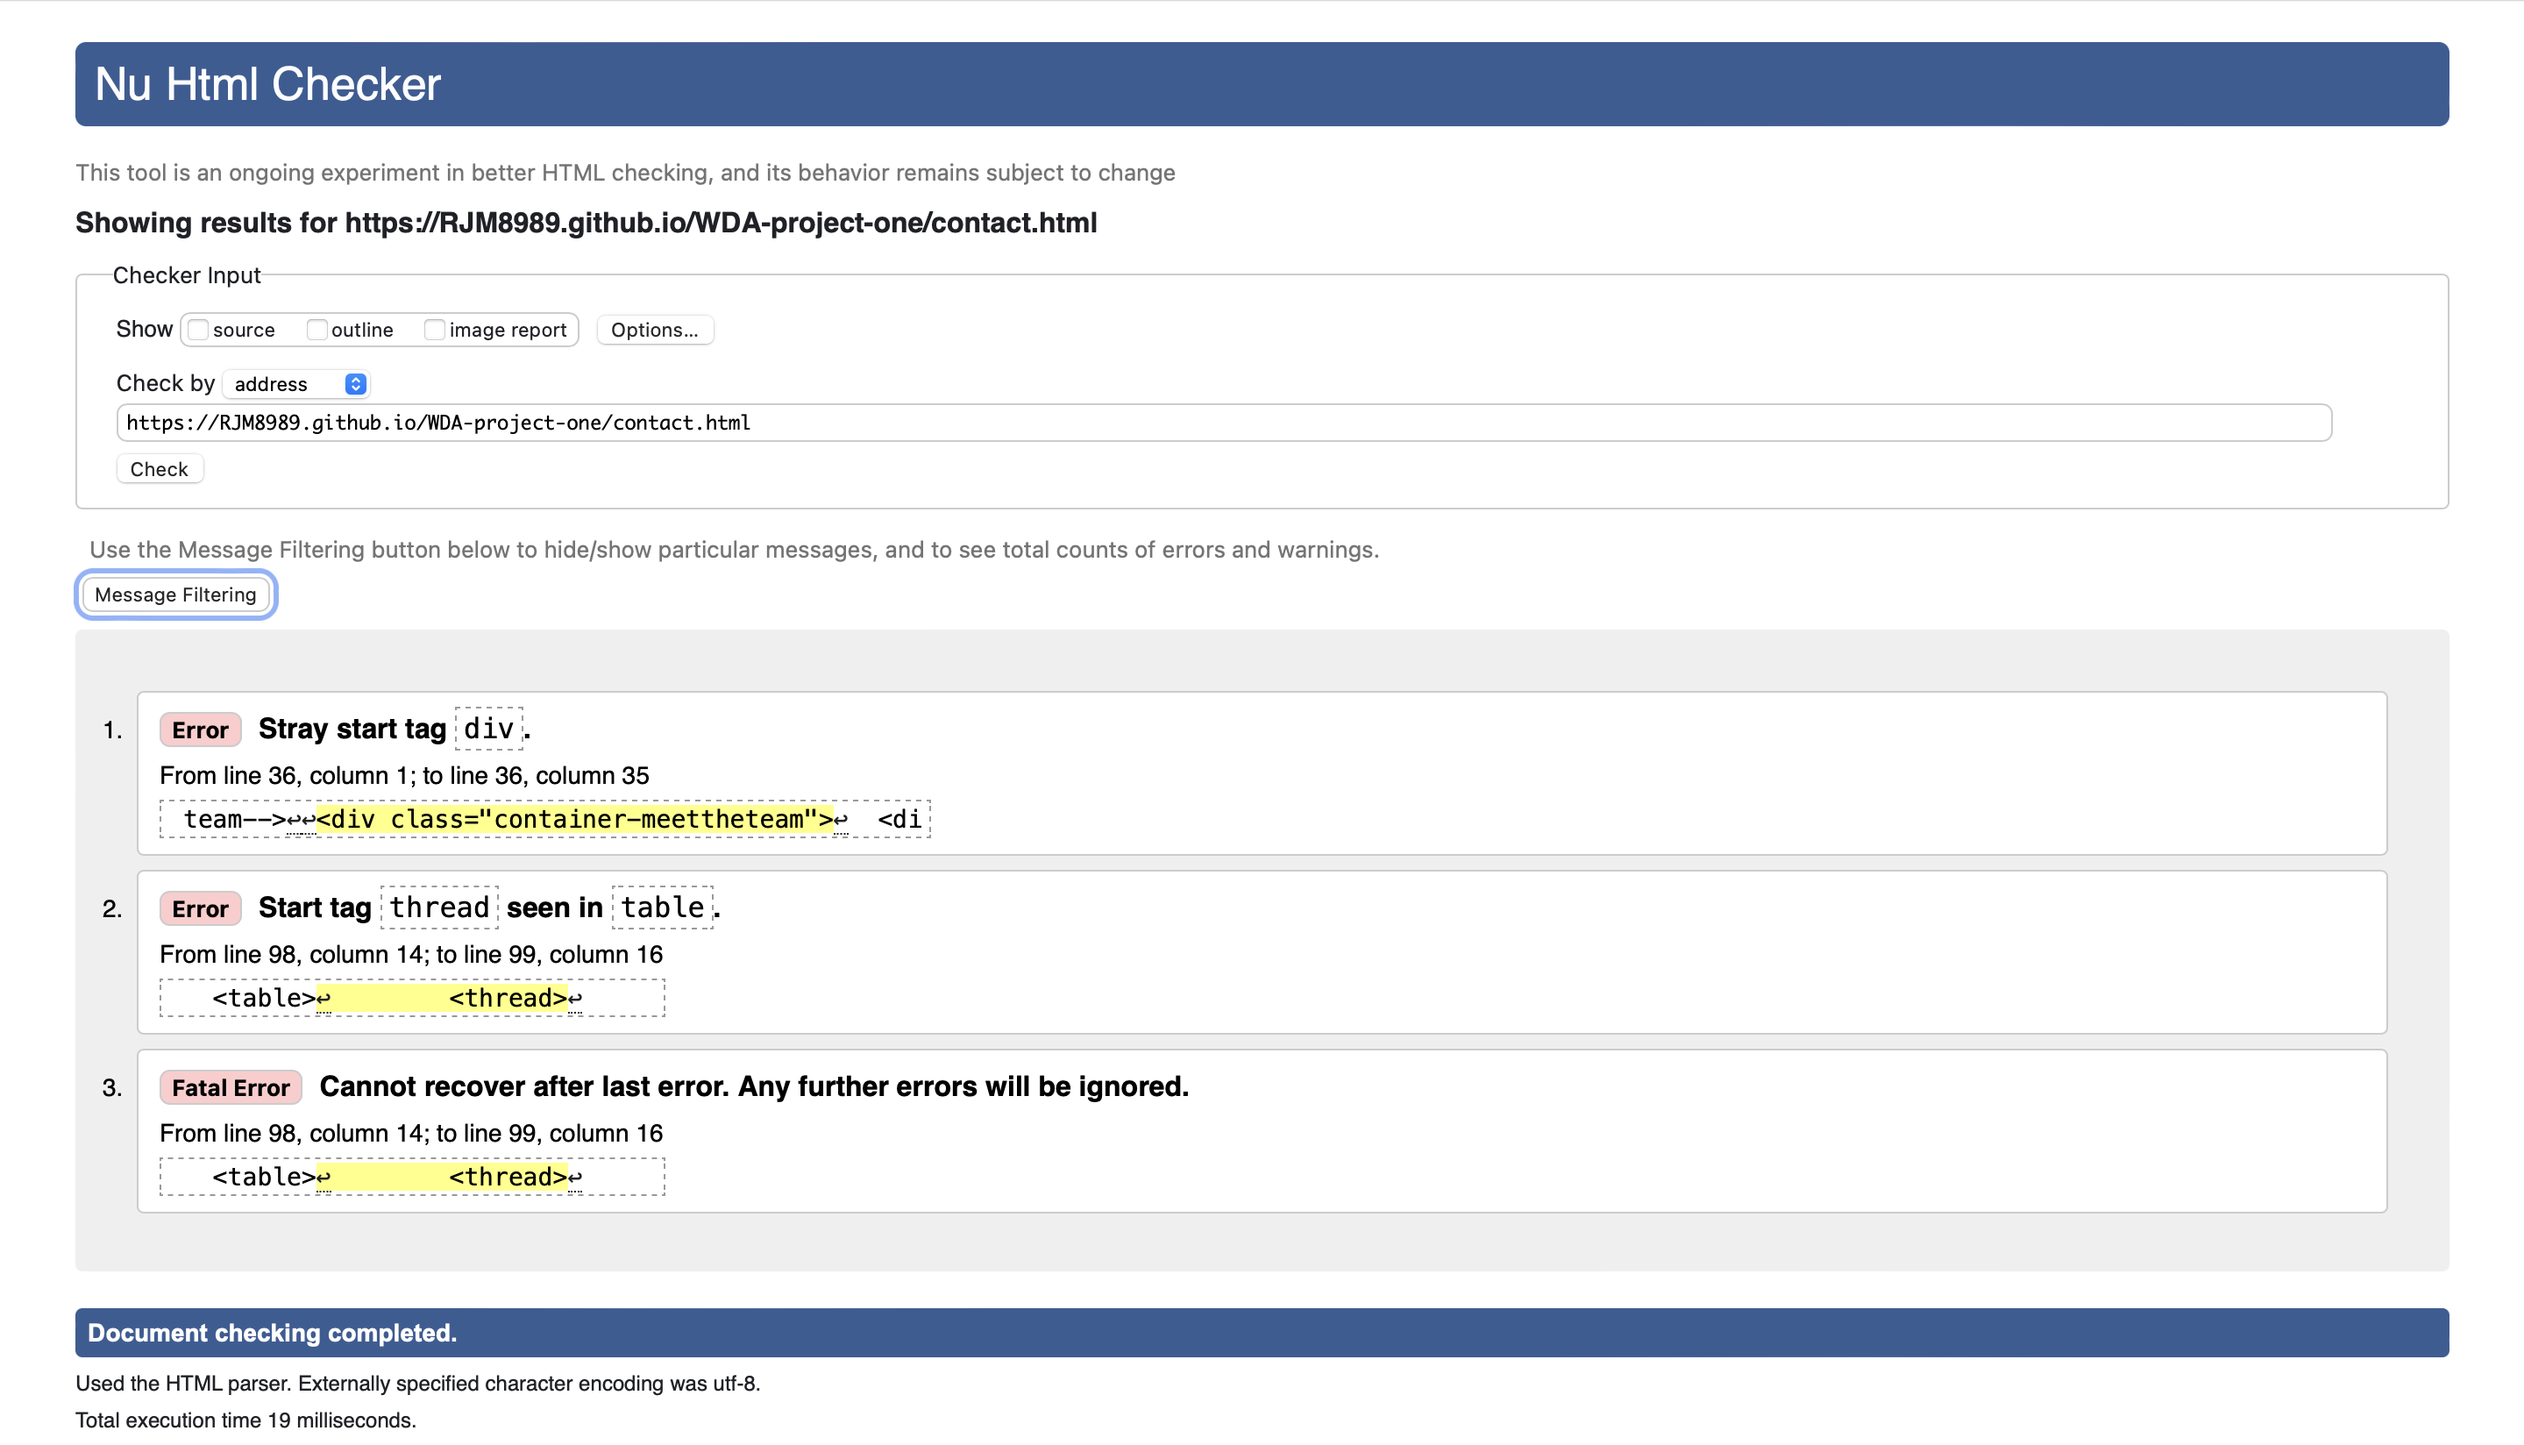
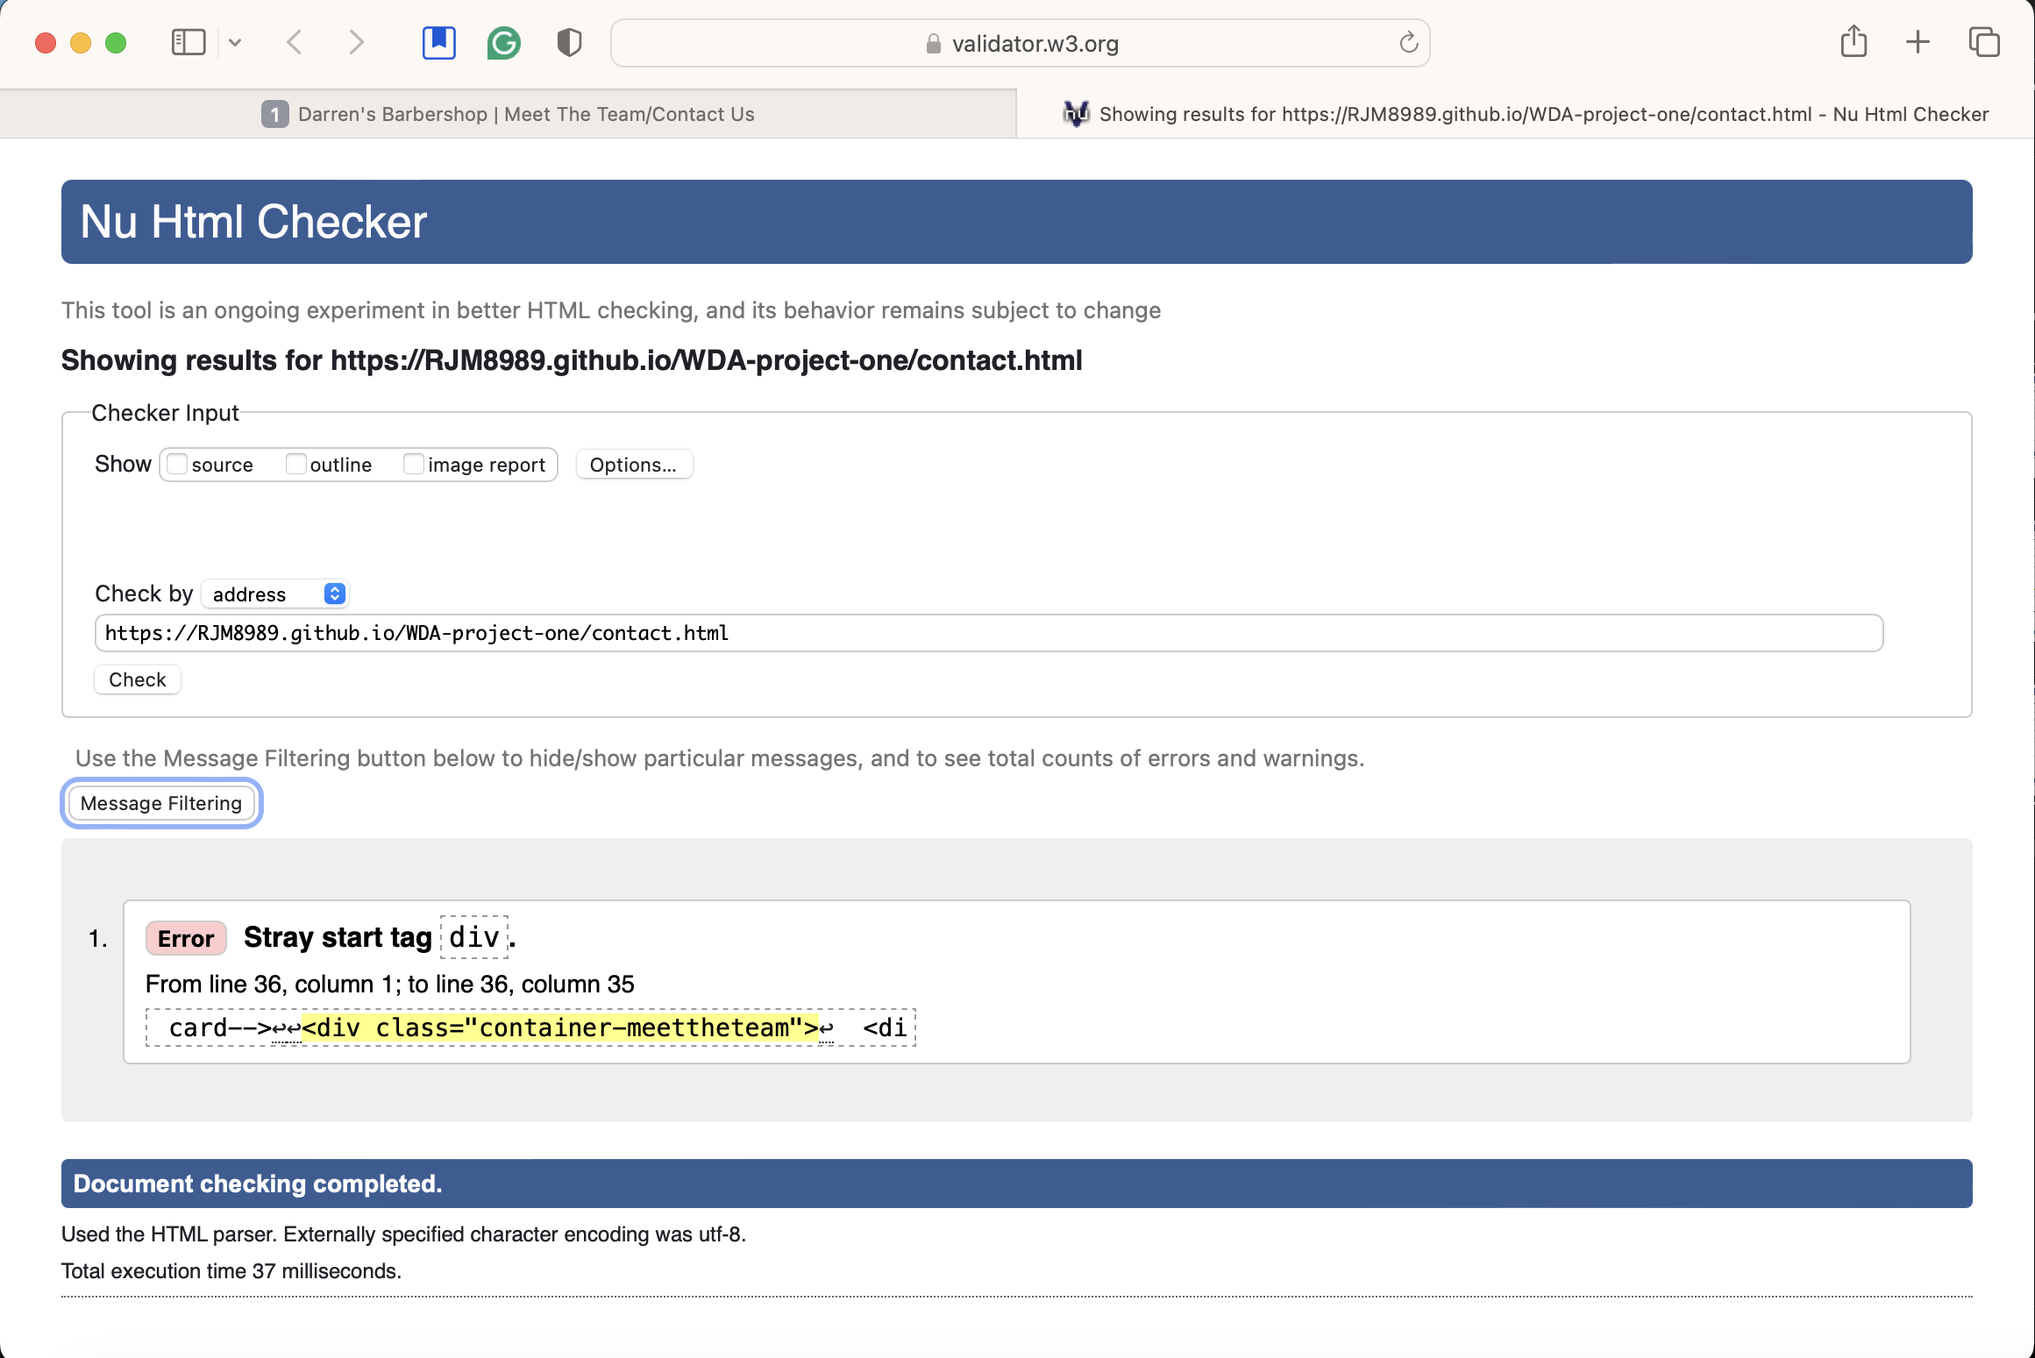
Modify HTML, CSS, README and TESTING.

Changed region(s): [[0.0, 0.0, 1.0, 0.9916], [0.9927, 0.9916, 1.0, 1.0]]

diff --git a/contact.html b/contact.html
@@ -37,13 +37,13 @@
   <div class="row">
     <div class="column">
       <h1>Meet The Team</h1>
-
+      <div class="meet-the-team">
       <img src="assets/images/darren.jpg" alt="Darren" width="200" height="350" style="border:0">
       <h2>Darren</h2>
       <p class="title">CEO &amp; Founder</p>
       <p>Darren has taken over the business from his father in 2000. He has been responsible for providing training and mentorship to junior barbers and upholding the shop's standards of excellence.</p>
 
-
+    </div>
     </div>
   </div>
 </div>
@@ -51,13 +51,16 @@
 <div class="container-meettheteam">
   <div class="row">
     <div class="column">
-      <img src="assets/images/glenprofile.jpg" alt="Glen" width="200" height="350" style="border:0">
+      <div class="meet-the-team">
+        <img src="assets/images/glenprofile.jpg" alt="Glen" width="200" height="350" style="border:0">
 
-      <h2>Glen</h2>
-      <p class="title">Senior barber</p>
-      <p>Glen worked alongside Darren's father and also played an important role in the training and mentorship of the junior barbers. With over 15 years of experience, has an array of Barbering skills to accommodate any client coming through our door.</p>
-      
-      
+        <h2>Glen</h2>
+        <p class="title">Senior barber</p>
+        <p>Glen worked alongside Darren's father and also played an important role in the training and mentorship of the
+          junior barbers. With over 15 years of experience, has an array of Barbering skills to accommodate any client
+          coming through our door.</p>
+
+      </div>
     </div>
   </div>
 </div>
@@ -65,11 +68,12 @@
 <div class="container-meettheteam">
   <div class="row">
     <div class="column">
+      <div class="meet-the-team">
       <img src="assets/images/kevinprofile.jpg" alt="Kevin" width="200" height="350" style="border:0">
-
       <h2>Kevin</h2>
       <p class="title">Junior barber</p>
       <p>Kevin started training at the shop after leaving college and has grown into his role over the last year and a half.</p>
+    </div>
     </div>
   </div>
 </div>
@@ -86,8 +90,8 @@
       <h1>Address</h1>
       <address>
         5 Boundaries Rd<br>
-        London<br>
         Balham<br>
+        London<br>
         SW12 8ET
       </address>
 
@@ -181,7 +185,7 @@
 
 <!--footer-->
 <footer>
-  <div class="container-foooter">
+  <div class="container-footer">
     <div class="col-sm-4">
       <ul class="list-inline social-links">
         <li class="list-inline-item">

diff --git a/pricelist.html b/pricelist.html
@@ -39,12 +39,9 @@
       <table class="table-dark">
         <thead>
           <tr>
-            <th scope="col">
-            </th>
-            <th scope="col">Haircut style<h2>
-            </th>
-            <th scope="col">Price<h2>
-            </th>
+            <th scope="col"></th>
+            <th scope="col"><h2>Haircut style</h2></th>
+            <th scope="col"><h2>Price</h2></th>
           </tr>
         </thead>
         <tbody>
@@ -104,14 +101,15 @@
 <!--booking form bootstrap card -->
 <section class="container">
   <div class="card-group">
-  
     <div class="card-dark">
       <img src="assets/images/darren.jpg" class="card-img-top" alt="Darren">
       <div class="card-body">
         <h5 class="card-title">Darren</h5>
         <p class="card-text">To book a haircut with Darren, click below. Please note all bookings are subject to
           availability and will be confirmed by an e-mail sent to your address.</p>
-        <p class="card-text"><button><a href="/" target="_blank">Book Now</button></a>
+        <a href="/" target="_blank">Book Now</a>
+          
+
       </div>
     </div>
   
@@ -121,7 +119,7 @@
         <h5 class="card-title">Glen</h5>
         <p class="card-text">To book a haircut with Glen, click below. Please note all bookings are subject to
           availability and will be confirmed by an e-mail sent to your address.</p>
-        <p class="card-text"><button><a href="/" target="_blank">Book Now</button></a>
+          <a href="/" target="_blank">Book Now</a>
       </div>
     </div>
   
@@ -131,7 +129,7 @@
         <h5 class="card-title">Kevin</h5>
         <p class="card-text">To book a haircut with Kevin, click below. Please note all bookings are subject to
           availability and will be confirmed by an e-mail sent to your address.</p>
-        <p class="card-text"> <button><a href="/" target="_blank">Book Now</button></a>
+          <a href="/" target="_blank">Book Now</a>
       </div>
     </div>
   </div>
@@ -139,7 +137,7 @@
 
 <!--Footer bootstrap-->
 <footer>
-  <div class="container-foooter">
+  <div class="container-footer">
     <div class="col-sm-4">
       <ul class="list-inline social-links">
         <li class="list-inline-item">

diff --git a/assets/css/style.css b/assets/css/style.css
@@ -188,6 +188,16 @@ footer {
   background-color: #A30B37;
 }
 
+
+/*----------- meet the team images*/
+
+.meet-the-team img {
+  border: 3px solid rgba(0, 0, 0, 0);
+  border-radius: 10px;
+  
+}
+
+
  /*----------- address*/
 address {
   padding: 10px;
@@ -283,7 +293,7 @@ input[type=submit]:hover {
 }
 
 
-/*-----booking form bootstrap card----*/
+/*-----booking form bootstrap card button link W3Schools----*/
 
 
 .card-group {
@@ -300,7 +310,7 @@ input[type=submit]:hover {
   width: 50%
 }
 
-.card-text button {
+.card-dark a:link, a:visited {
   border: none;
   outline: 0;
   display: inline-block;
@@ -312,6 +322,6 @@ input[type=submit]:hover {
   
 }
 
-.card-text button:hover {
+.card-dark a:hover, a:active {
   background-color: #A30B37;
 }

diff --git a/index.html b/index.html
@@ -131,7 +131,7 @@
 
 <!--Footer bootstrap -->
 <footer>
-    <div class="container-foooter">
+    <div class="container-footer">
         <div class="col-sm-4">
             <ul class="list-inline social-links">
                 <li class="list-inline-item">

diff --git a/README.md b/README.md
@@ -1,4 +1,4 @@
-# [WDA PROJECT ONE.GIT](https://rjm8989.github.io/WDA-project-one)
+# [User-centric frontend development.GIT](https://rjm8989.github.io/WDA-project-one)
 
 [![GitHub commit activity](https://img.shields.io/github/commit-activity/t/RJM8989/WDA-project-one)](https://github.com/RJM8989/WDA-project-one/commits/main)
 [![GitHub last commit](https://img.shields.io/github/last-commit/RJM8989/WDA-project-one)](https://github.com/RJM8989/WDA-project-one/commits/main)
@@ -245,6 +245,7 @@ You can fork this repository by using the following steps:
 | --- | --- | --- |
 | [Markdown Builder](https://tim.2bn.dev/markdown-builder) | README and TESTING | tool to help generate the Markdown files |
 | [Chris Beams](https://chris.beams.io/posts/git-commit) | version control | "How to Write a Git Commit Message" |
+| [W3Schools](https://www.w3schools.com/css/css_link.asp) | CSS Links, A link styled as button | Booking Form buttons |
 | [W3Schools](https://www.w3schools.com/howto/howto_css_blurred_background.asp) | Hero Image | blurred box on hero image |
 | [W3Schools](https://www.w3schools.com/howto/howto_css_contact_section.asp) | Contact form | interactive contact form |
 | [Bootstrap](https://getbootstrap.com/docs/5.3/components/carousel/) | Carousel | pictures on home page |

diff --git a/TESTING.md b/TESTING.md
@@ -11,7 +11,7 @@
 | Page | W3C URL | Screenshot | Notes |
 | --- | --- | --- | --- |
 | Home | [W3C](https://validator.w3.org/nu/?doc=https%3A%2F%2FRJM8989.github.io%2FWDA-project-one%2Findex.html) | ![screenshot](assets/Documentation/Validation/html-validation-home.png) | Stray tag |
-| Contact | [W3C](https://validator.w3.org/nu/?doc=https%3A%2F%2FRJM8989.github.io%2FWDA-project-one%2Fcontact.html) | ![screenshot](assets/Documentation/Validation/html-validation-contact.png) | stray tag and unclosed element|
+| Contact | [W3C](https://validator.w3.org/nu/?doc=https%3A%2F%2FRJM8989.github.io%2FWDA-project-one%2Fcontact.html) | ![screenshot](assets/Documentation/Validation/html-validation-contact.png) | stray tag |
 | Pricelist | [W3C](https://validator.w3.org/nu/?doc=https%3A%2F%2FRJM8989.github.io%2FWDA-project-one%2Fpricelist.html) | ![screenshot](assets/Documentation/Validation/html-validation-pricelist.png) | stray tag|
 
 
